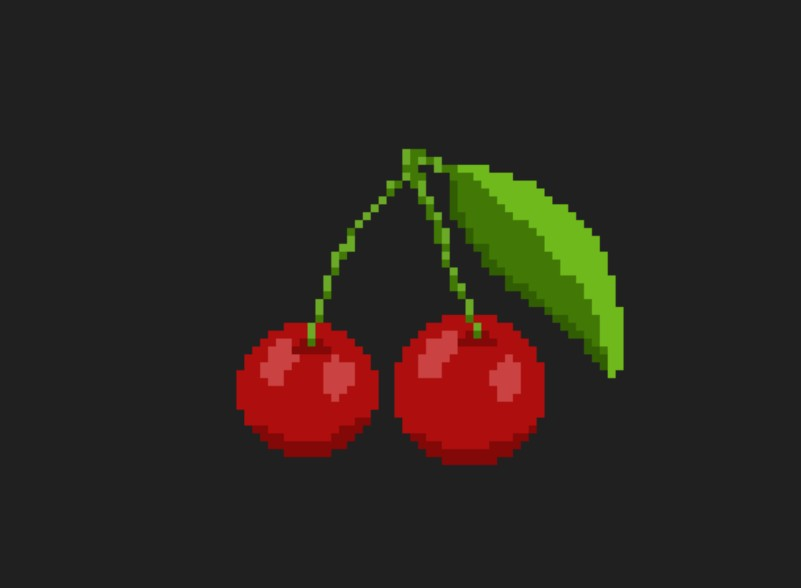
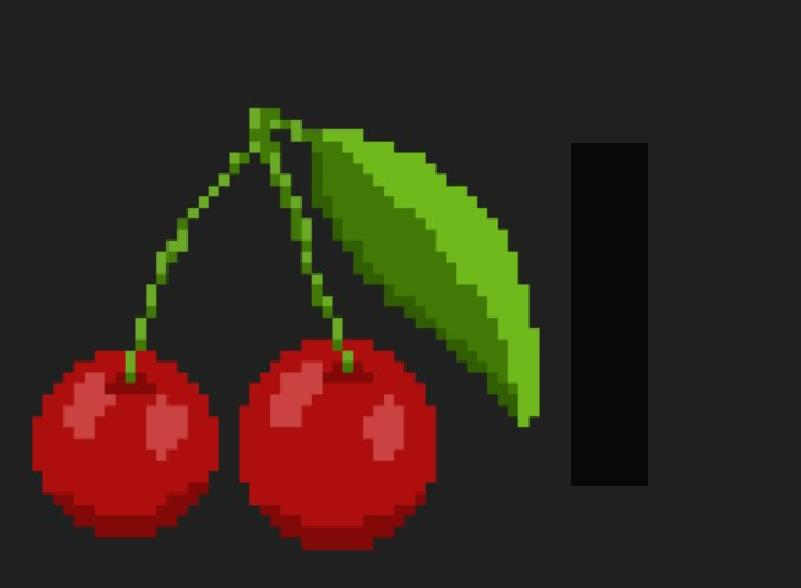
feat: fantasmas nao saem mais ta tela mas falta checar se a cereja nao nasce dentro da parede ( linha 227)

Changed region(s): [[0.0312, 0.1837, 0.7803, 0.949], [0.7179, 0.7959, 0.8115, 0.8265]]

diff --git a/MainWindow.xaml b/MainWindow.xaml
@@ -14,10 +14,10 @@
         <Rectangle Name="lifeOne" Width="30" Height="30" Fill="Yellow" Canvas.Left="599" Canvas.Top="583" HorizontalAlignment="Left" VerticalAlignment="Center" />
         <Rectangle Name="lifeTwo" Width="30" Height="30" Fill="Yellow" Canvas.Left="647" Canvas.Top="583" HorizontalAlignment="Left" VerticalAlignment="Center" />
         <Rectangle Name="lifeThree" Width="30" Height="30" Fill="Yellow" Canvas.Left="690" Canvas.Top="583" HorizontalAlignment="Left" VerticalAlignment="Center" />
-        <Rectangle Name="redGuy" Tag="ghost" Width="30" Height="30" Fill="Red" Canvas.Left="173" Canvas.Top="29" />
-        <Rectangle Name="orangeGuy" Tag="ghost" Width="30" Height="30" Fill="Orange" Canvas.Left="651" Canvas.Top="104" />
-        <Rectangle Name="pinkGuy" Tag="ghost" Width="30" Height="30" Fill="Pink" Canvas.Left="173" Canvas.Top="404" />
-        <Rectangle Name="cherry" Tag="cherry" Width="30" Height="30" Fill="Red" Canvas.Left="173" Canvas.Top="404" />
+        <Rectangle Name="redGuy" Tag="ghost" Width="30" Height="30" Fill="Red" Canvas.Left="85" Canvas.Top="394" />
+        <Rectangle Name="orangeGuy" Tag="ghost" Width="30" Height="30" Fill="Orange" Canvas.Left="417" Canvas.Top="394" HorizontalAlignment="Left" VerticalAlignment="Top" />
+        <Rectangle Name="pinkGuy" Tag="ghost" Width="30" Height="30" Fill="Pink" Canvas.Left="417" Canvas.Top="104" />
+        <Rectangle Name="cherry" Tag="cherry" Width="30" Height="30" Fill="Red" Canvas.Left="549" Canvas.Top="583" />
 
 
         <Rectangle Tag="wall" Stroke="Aqua" StrokeThickness="3" Height="20" Width="578" Canvas.Left="142" Canvas.Top="70" />
@@ -121,9 +121,6 @@
         <Rectangle Tag="coin" Height="10" Width="10" Fill="Gold" Canvas.Left="318" Canvas.Top="510" />
         <Rectangle Tag="coin" Height="10" Width="10" Fill="Gold" Canvas.Left="350" Canvas.Top="544" />
         <Rectangle Tag="coin" Height="10" Width="10" Fill="Gold" Canvas.Left="350" Canvas.Top="510" />
-
-        <Rectangle Tag="cherry" Height="10" Width="10" Fill="Red" Canvas.Left="350" Canvas.Top="510" />
-
 
     </Canvas>
 </Window>

diff --git a/MainWindow.xaml.cs b/MainWindow.xaml.cs
@@ -5,10 +5,6 @@ using System.Windows.Media;
 using System.Windows.Media.Imaging;
 using System.Windows.Shapes;
 using System.Windows.Threading;
-using System.Collections.Generic;
-using System;
-using System.Linq;
-
 namespace PAC_Man_Game_WPF_MOO_ICT
 {
     /// <summary>
@@ -83,7 +79,7 @@ namespace PAC_Man_Game_WPF_MOO_ICT
         private void GameSetUp()
         {
             MyCanvas.Focus();
-            gameTimer.Tick += GameLoop;
+            gameTimer.Tick += GameLoop!;
             gameTimer.Interval = TimeSpan.FromMilliseconds(30);
             gameTimer.Start();
 
@@ -119,7 +115,7 @@ namespace PAC_Man_Game_WPF_MOO_ICT
 
             // Configuração da cereja
             ImageBrush cherryImage = new ImageBrush();
-            cherryImage.ImageSource = new BitmapImage(new Uri("Images/pacman.jpg", UriKind.Relative));
+            cherryImage.ImageSource = new BitmapImage(new Uri("pack://application:,,,/images/cereja.jpg"));
             cherry.Fill = cherryImage;
             cherry.Visibility = Visibility.Hidden;
 
@@ -225,9 +221,10 @@ namespace PAC_Man_Game_WPF_MOO_ICT
                 {
                     cherryHitBox = hitBox;
 
-                    // Aparece após 300 ticks
-                    if (tickCounter == 300 && x.Visibility != Visibility.Visible)
+                    // Aparece após 250 ticks
+                    if (tickCounter == 250 && x.Visibility != Visibility.Visible)
                     {
+                        // TODO: checar se a cereja não tá sendo gerada dentro da parede
                         cherryCol = rand.Next(0, (int)(Application.Current.MainWindow.Width / tileSize));
                         cherryRow = rand.Next(0, (int)(Application.Current.MainWindow.Height / tileSize));
 
@@ -352,19 +349,31 @@ namespace PAC_Man_Game_WPF_MOO_ICT
         private bool CanMoveTo(Rectangle ghost, double x, double y)
         {
             Rect newPos = new Rect(x, y, ghost.Width, ghost.Height);
-
+            Rect screenWidth = new Rect(0, 0, MyCanvas.ActualWidth, MyCanvas.ActualHeight);
             foreach (var wall in MyCanvas.Children.OfType<Rectangle>())
             {
                 if ((string)wall.Tag == "wall")
                 {
                     Rect wallRect = new Rect(Canvas.GetLeft(wall), Canvas.GetTop(wall), wall.Width, wall.Height);
-                    if (newPos.IntersectsWith(wallRect))
+                    if (newPos.IntersectsWith(wallRect) || willCollide(newPos))
                     {
                         return false;
                     }
                 }
             }
             return true;
+        }
+
+        private bool willCollide(Rect newPos)
+        {
+            double screenHeig = MyCanvas.ActualHeight;
+            double screenWidth = MyCanvas.ActualWidth;
+            //Testa se a próxima posição do fantasma acrescida de 95 pixels, será maior
+            //que a borda da tela, se for, vai colidir.
+            if (newPos.X + 95 >= screenWidth || 
+                newPos.Y + 95 >= screenHeig)
+                return true;
+            return false;
         }
 
         private void DeathLogic()
@@ -404,8 +413,8 @@ namespace PAC_Man_Game_WPF_MOO_ICT
         {
             gameTimer.Stop();
             MessageBox.Show(message, "Pacman da Giseli (Adaptado)");
-            System.Diagnostics.Process.Start(System.Diagnostics.Process.GetCurrentProcess().MainModule.FileName);
-            Application.Current.Shutdown();
+            if (System.Diagnostics.Process.Start(System.Diagnostics.Process.GetCurrentProcess().MainModule!.FileName) != null)
+                Application.Current.Shutdown();
         }
     }
 }
